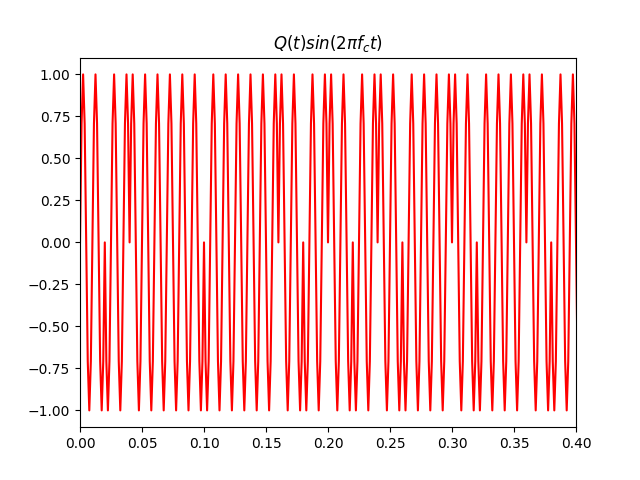
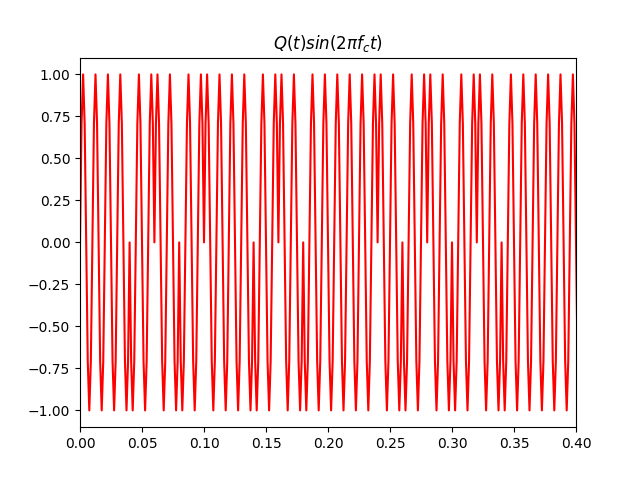
saving

diff --git a/passband_modulations.py b/passband_modulations.py
@@ -82,30 +82,35 @@ def qpsk_mod(a, fc, OF, enable_plot = False):
     if enable_plot:
 
         plt.figure(0)
+        plt.clf()
         plt.plot(t,I)
         plt.xlim(0,20*L/fs)
         plt.title('I(t)')
         plt.savefig('Ch2_images/qpsk_mod_im1')
 
         plt.figure(1)
+        plt.clf()
         plt.plot(t,Q)
         plt.xlim(0,20*L/fs)
         plt.title('Q(t)')
         plt.savefig('Ch2_images/qpsk_mod_im2')
 
         plt.figure(2)
+        plt.clf()
         plt.plot(t,I_t,'r')
         plt.xlim(0,20*L/fs)
         plt.title('$I(t) cos(2 \pi f_c t)$')
         plt.savefig('Ch2_images/qpsk_mod_im3')
 
         plt.figure(3)
+        plt.clf()
         plt.plot(t,Q_t,'r')
         plt.xlim(0,20*L/fs)
         plt.title('$Q(t) sin(2 \pi f_c t)$')
         plt.savefig('Ch2_images/qpsk_mod_im4')
 
         plt.figure(4)
+        plt.clf()
         plt.plot(t,s_t)
         plt.xlim(0,20*L/fs)
         plt.title('$s(t) = I(t) cos(2 \pi f_c t) - Q(t) sin(2 \pi f_c t)$')
@@ -152,8 +157,10 @@ def qpsk_demod(r, fc, OF, enable_plot=False):
 
     if enable_plot:
 
-        plt.figure(0)
+        plt.figure(5)
+        plt.clf()
         plt.plot(x[0:200],y[0:200],'o')
+        plt.title('Demodulated signal constelation plot')
         plt.savefig('Ch2_images/qpsk_demod')
 
     return a_hat

diff --git a/ch2_demo_scripts.py b/ch2_demo_scripts.py
@@ -251,6 +251,7 @@ def qpsk():
 
     #--------Plot performance curve--------
     plt.figure(6)
+    plt.clf()
     plt.semilogy(EbN0dB, BER, 'k*', label='Simulated')
     plt.semilogy(EbN0dB, theoreticalBER, 'r-', label='Theoretical')
     plt.xlabel('$E_b/N_0$ (dB)')
